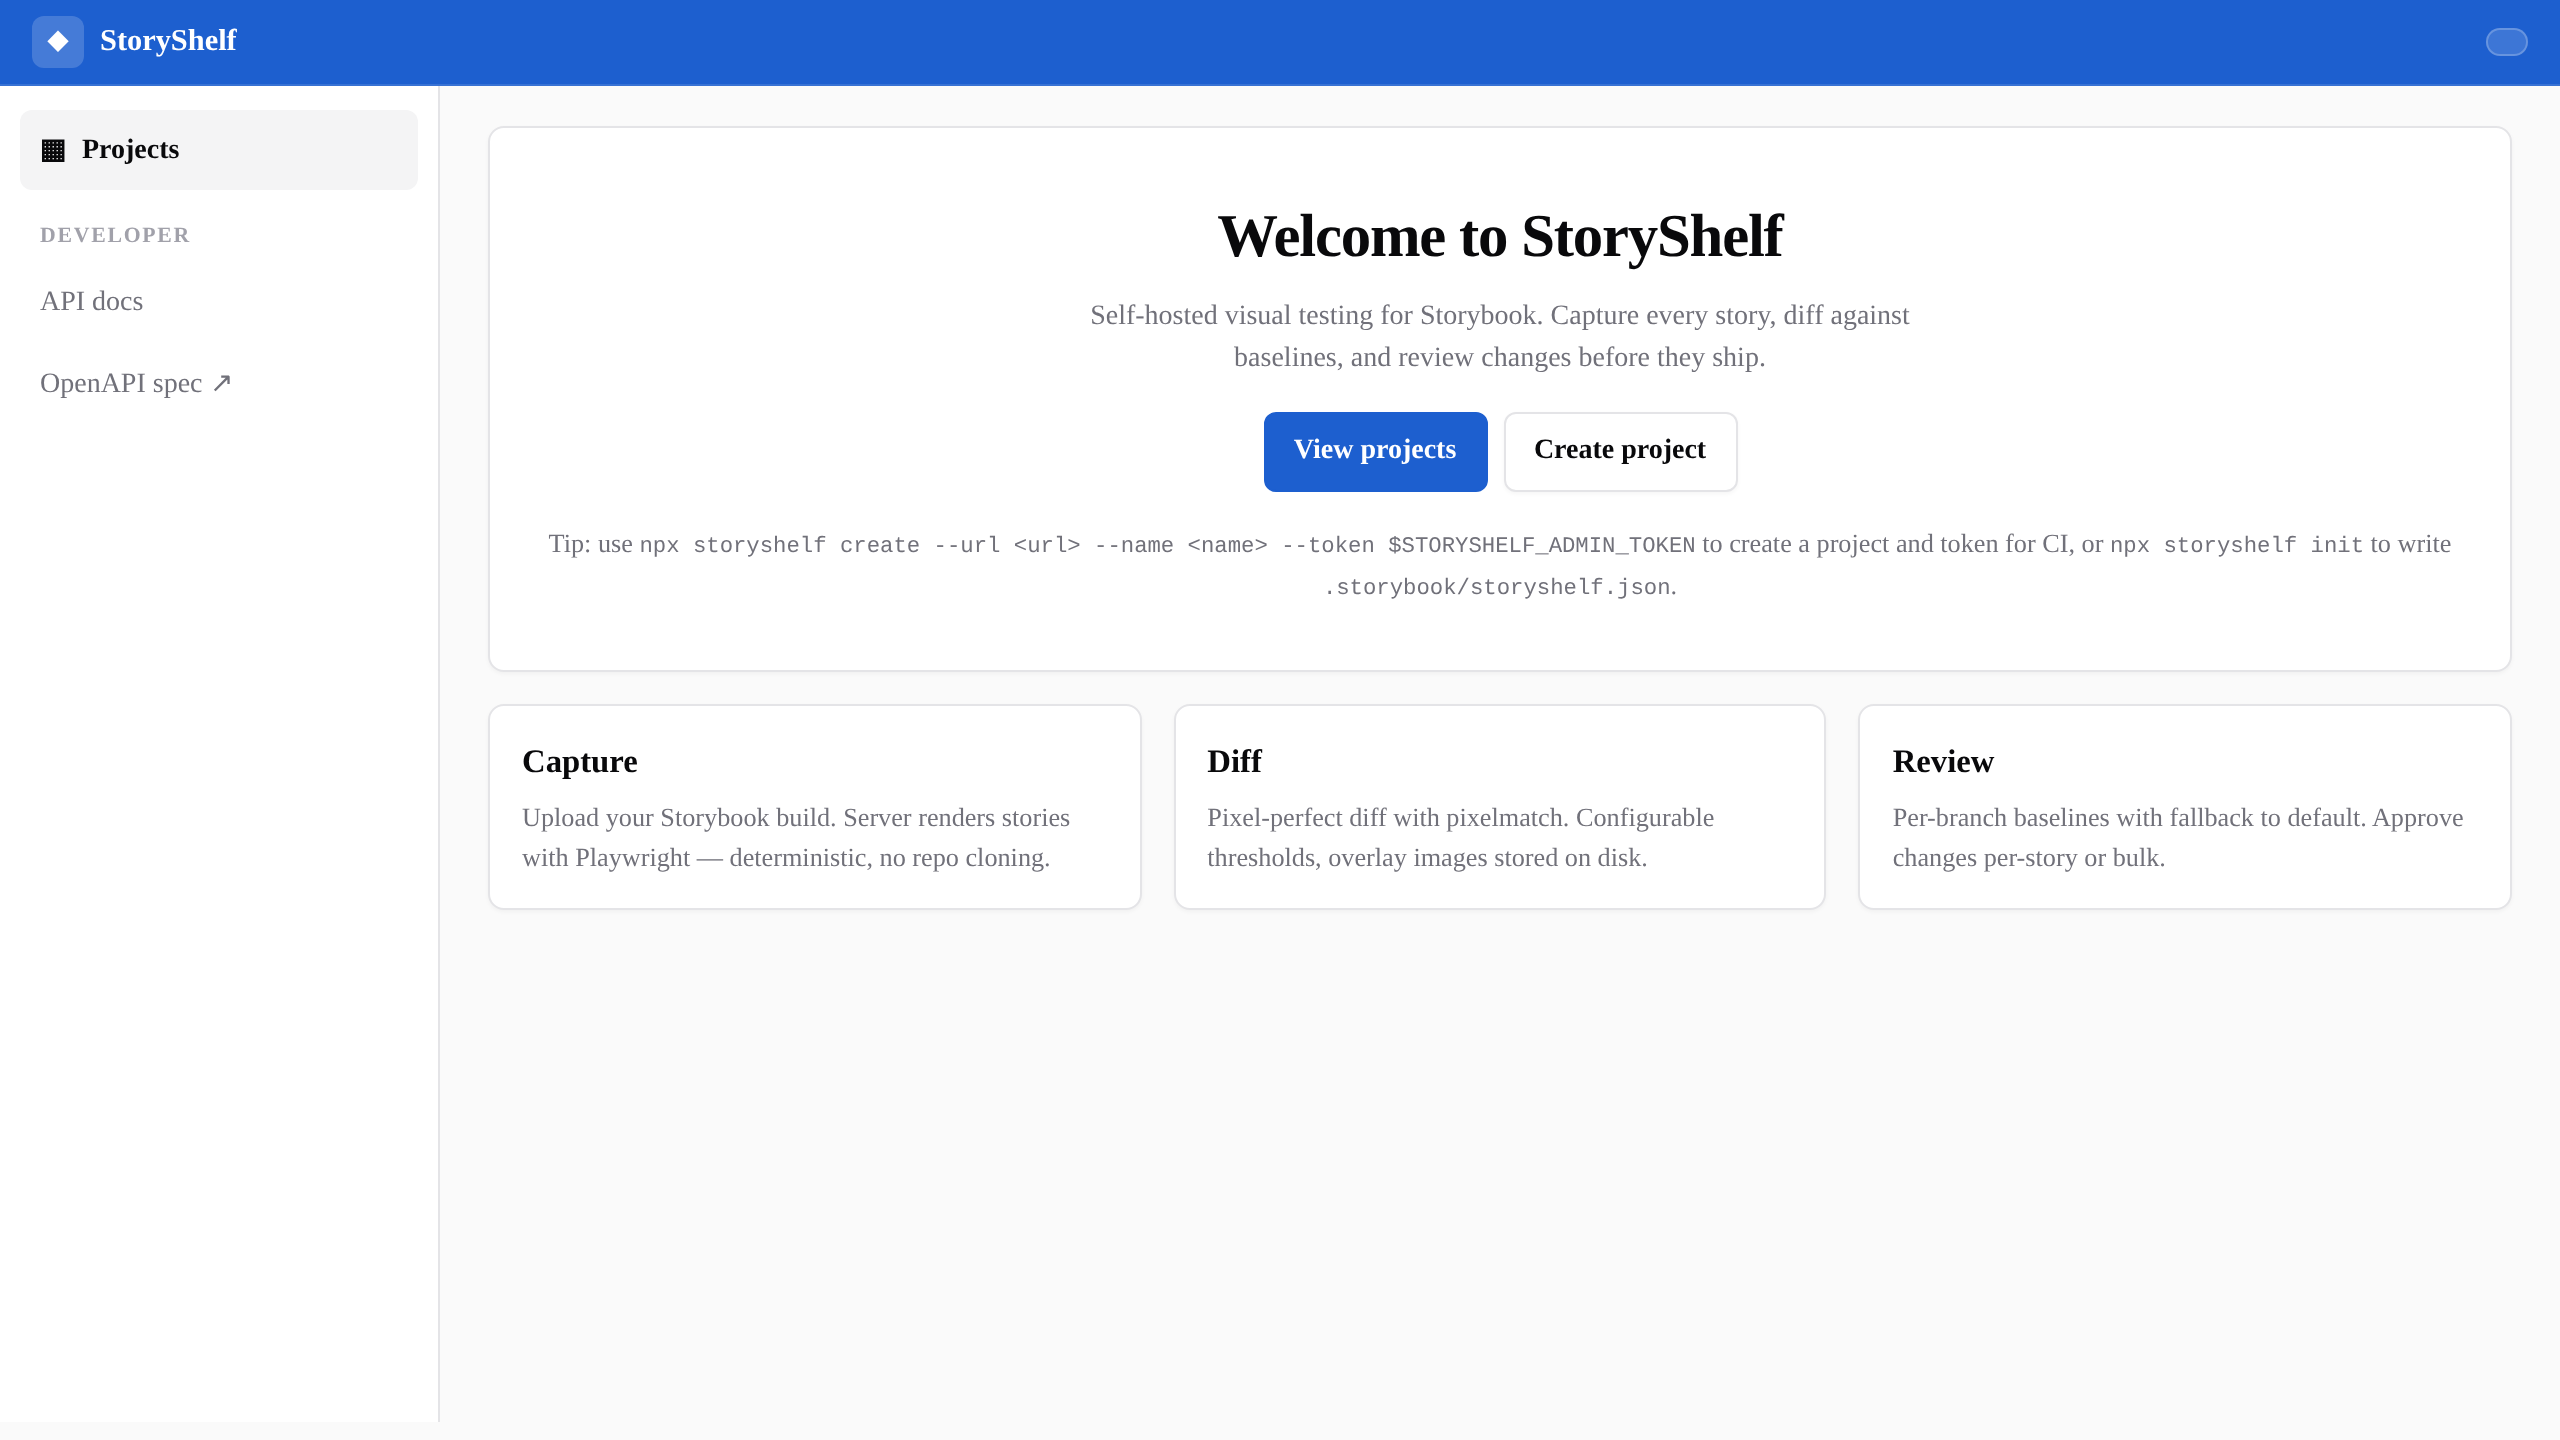
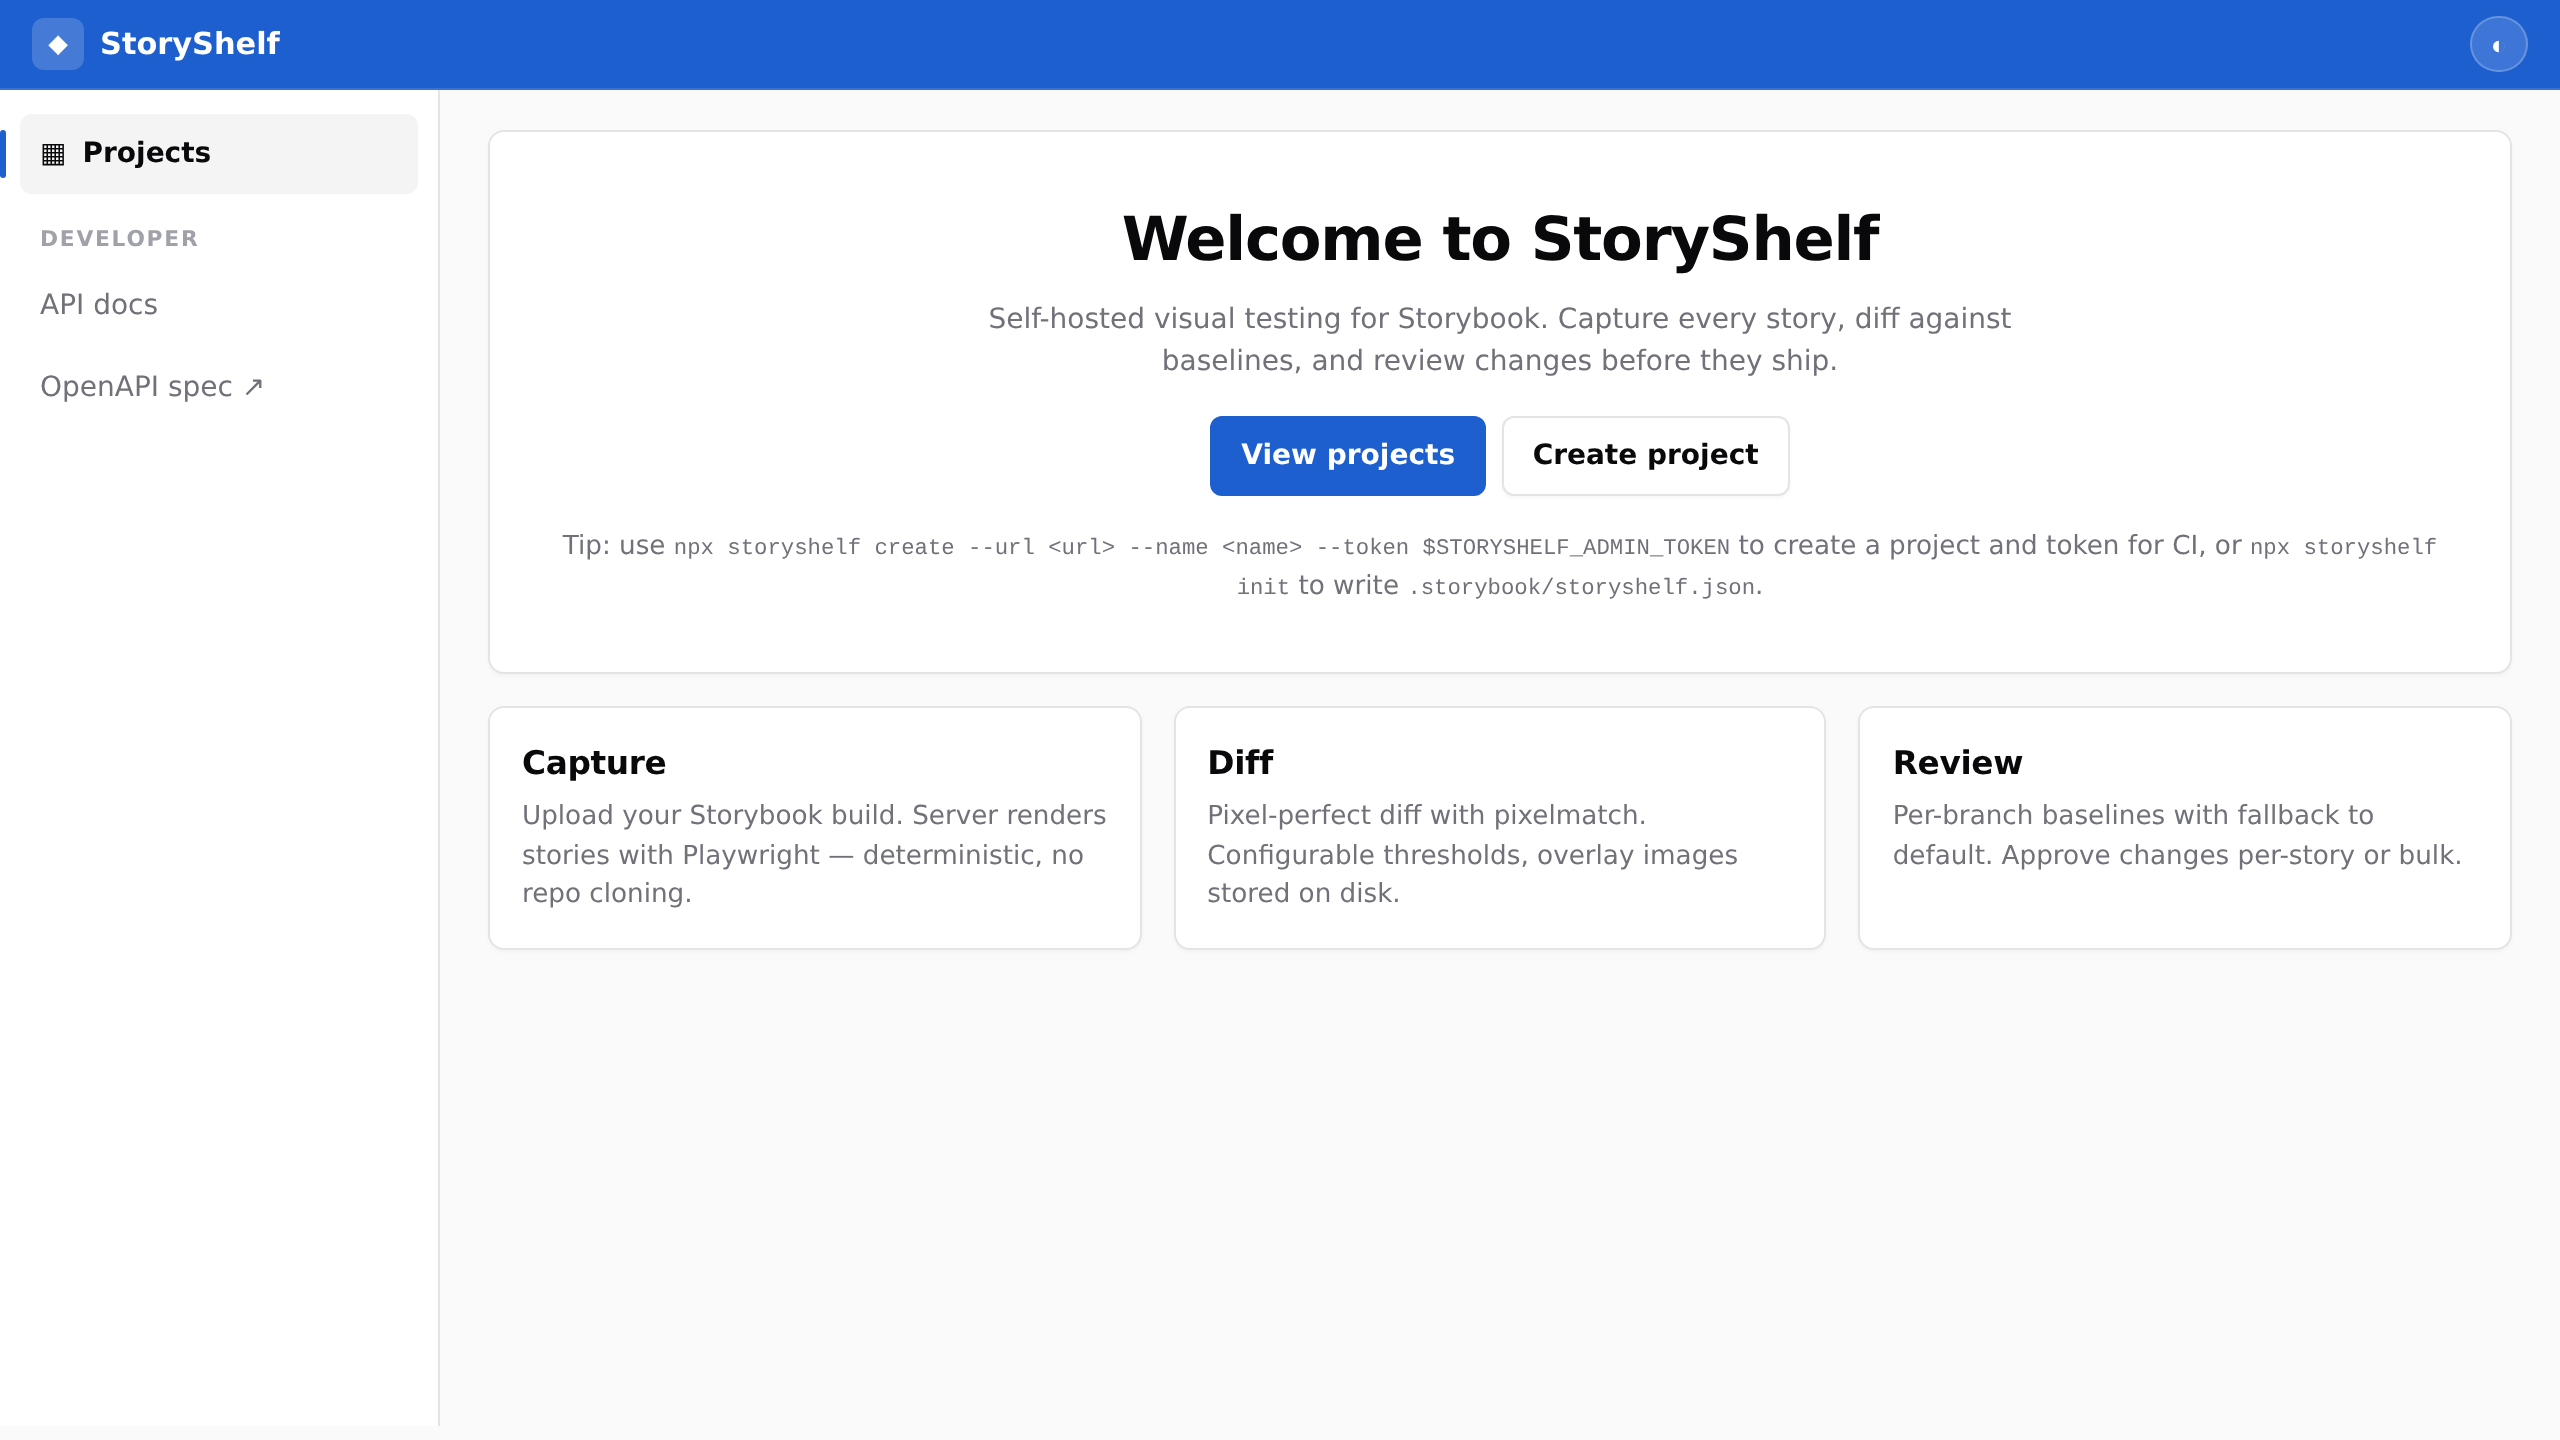
fix(ui): serve stylesheet unescaped so fonts and selectors survive
- Render <style> via dangerouslySetInnerHTML; Hono escapes text children
  (" -> &quot;, > -> &gt;), which killed the body font stack, dark/system
  theme selectors, and the diff view-switcher selectors
- Harden CSS: unquoted Segoe UI, valid ui-sans-serif keyword, no child combinators
- Add document.test.ts regression test (fails on escaped output)
- Regenerate app screenshots with the fixed theme

diff --git a/packages/app/src/ui/document.test.ts b/packages/app/src/ui/document.test.ts
@@ -1,0 +1,32 @@
+import { createShelfLogger } from "@storyshelf/core/logger";
+import { makeDatabase, makeStorage } from "@storyshelf/core/test-helpers";
+import { describe, expect, it } from "vitest";
+import { createShelfApp } from "../index.tsx";
+
+function styleBlock(html: string): string {
+  const match = /<style>(?<css>[\s\S]*)<\/style>/u.exec(html);
+  if (!match?.groups?.["css"]) {
+    throw new Error("expected a <style> block in the document");
+  }
+  return match.groups["css"];
+}
+
+describe("DocumentLayout stylesheet", () => {
+  it("serves the CSS unescaped so selectors and font stacks survive", async () => {
+    const { db } = makeDatabase();
+    const { storage } = makeStorage();
+    const app = createShelfApp({
+      database: db,
+      storage,
+      logger: createShelfLogger({ level: "silent" }),
+    });
+    const html = await (await app.request("/")).text();
+    const css = styleBlock(html);
+    expect(css).toContain('[data-theme="dark"]');
+    expect(css).toContain("font-family:");
+    expect(css).not.toContain("&quot;");
+    expect(css).not.toContain("&gt;");
+    expect(css).not.toContain("&lt;");
+    expect(css).not.toContain("&#39;");
+  });
+});

diff --git a/packages/app/src/ui/styles/base.ts b/packages/app/src/ui/styles/base.ts
@@ -7,7 +7,7 @@ function resetCss(): string {
   return `
     * { box-sizing: border-box; }
     html { scroll-behavior: smooth; }
-    body { margin: 0; font-size: 14px; font-family: ui-sans-system, system-ui, -apple-system, "Segoe UI", Roboto, Helvetica, Arial, sans-serif; background: var(--surface-base); color: var(--text-primary); line-height: 1.5; -webkit-font-smoothing: antialiased; }
+    body { margin: 0; font-size: 14px; font-family: ui-sans-serif, system-ui, -apple-system, Segoe UI, Roboto, Helvetica, Arial, sans-serif; background: var(--surface-base); color: var(--text-primary); line-height: 1.5; -webkit-font-smoothing: antialiased; }
     a { color: var(--accent); text-decoration: none; }
     a:hover { text-decoration: underline; }
     a:focus-visible, button:focus-visible, input:focus-visible, select:focus-visible, textarea:focus-visible { outline: 2px solid var(--ring); outline-offset: 2px; border-radius: var(--radius-sm); }

diff --git a/packages/app/src/ui/layout.tsx b/packages/app/src/ui/layout.tsx
@@ -49,7 +49,7 @@ export function layoutCss(): string {
   return `
     .card { background: var(--surface-card); border: 1px solid var(--border); border-radius: var(--radius); box-shadow: var(--shadow); }
     .card--padded { padding: 1rem; }
-    .card--padded > h2:first-child, .card--padded > h3:first-child { margin: 0 0 .5rem; font-weight: 650; letter-spacing: -.01em; }
+    .card--padded h2:first-child, .card--padded h3:first-child { margin: 0 0 .5rem; font-weight: 650; letter-spacing: -.01em; }
     .page-header { margin-bottom: 1.25rem; }
     .page-header__row { display: flex; gap: 1rem; align-items: flex-start; justify-content: space-between; flex-wrap: wrap; }
     .page-header__title { margin: 0; font-size: 1.45rem; line-height: 1.2; letter-spacing: -0.02em; font-weight: 700; }

diff --git a/packages/app/src/ui/document.tsx b/packages/app/src/ui/document.tsx
@@ -38,7 +38,7 @@ export const DocumentLayout: FC<{ title: string; nav?: NavConfig; children?: unk
         <title>
           {title} · {name}
         </title>
-        <style>{baseStyle(light, dark)}</style>
+        <style dangerouslySetInnerHTML={{ __html: baseStyle(light, dark) }} />
         <script dangerouslySetInnerHTML={{ __html: themeScript() }} />
       </head>
       <body>
